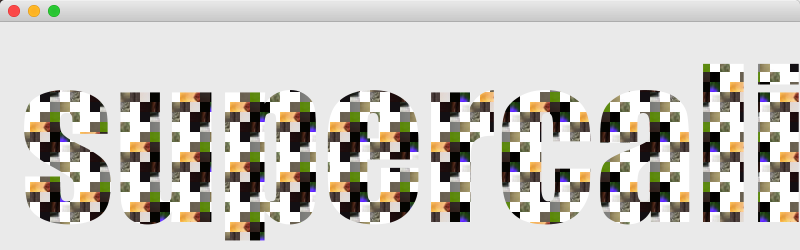
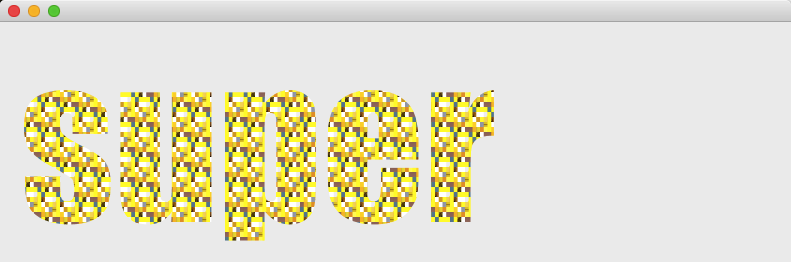
refactoring of backend and tests

diff --git a/src/main/java/service/ImageService.java b/src/main/java/service/ImageService.java
@@ -1,0 +1,124 @@
+package main.java.service;
+
+import javax.imageio.IIOException;
+import javax.imageio.ImageIO;
+import java.awt.image.BufferedImage;
+import java.io.BufferedReader;
+import java.io.File;
+import java.io.IOException;
+import java.io.InputStreamReader;
+import java.net.HttpURLConnection;
+import java.net.MalformedURLException;
+import java.net.URL;
+import java.util.ArrayList;
+import java.util.List;
+
+import static org.apache.http.params.CoreProtocolPNames.USER_AGENT;
+
+public class ImageService {
+    //  private static final String GOOGLE_SEARCH_API_KEY = "AIzaSyCQbxRMKMxuyaIVmosCa_k2sIv5BeavGFs";
+    //  private static final String GOOGLE_CX = "007628912923159165220:9e6kozm2iea";  // custom search engine identifier
+    private static final String GOOGLE_SEARCH_API_KEY = "AIzaSyADYi8Ob0jmPJbGEMCkJwrB31bOY80RtXs";
+    private static final String GOOGLE_CX = "008543189839369971484:b8selplq7z8";
+//	  private static final String GOOGLE_SEARCH_API_KEY = "AIzaSyB7_yytK04B7speZc4lXsHLr9ARmwPiUzw";
+//	  private static final String GOOGLE_CX = "015527610641952349258:lx1x9pjo0ec";
+
+    //generate url to make request to our Google custom search engine
+    private static URL generateRequestURL(String topic, int resultNumber, String garbageString) throws MalformedURLException {
+        URL requestURL = null;
+        if(resultNumber > 0) {
+            requestURL = new URL("http" + garbageString + "s://www.googleapis.com/customsearch/v1?key=" + GOOGLE_SEARCH_API_KEY + "&cx=" + GOOGLE_CX + "&q=" + topic + "&searchType=image&imgType=photo&imgSize=medium&start=" + resultNumber + "&num=10");
+        }
+        else {
+            requestURL = new URL("http" + garbageString + "s://www.googleapis.com/customsearch/v1?key=" + GOOGLE_SEARCH_API_KEY + "&cx=" + GOOGLE_CX + "&q=" + topic + "&searchType=image&imgType=photo&imgSize=medium&num=10");
+        }
+        return requestURL;
+    }
+
+    // The public interface exposed. Returns a list of images given a topic name (query)
+    public static List<BufferedImage> getImages(String query) {
+        List<BufferedImage> images = new ArrayList<>();
+        try {
+            // maintain count of number of results fetched from API
+            int resultNum = 0;
+            while(images.size() < 30) {
+                URL requestURL = generateRequestURL(query, resultNum, "");
+                URL obj = null;
+                HttpURLConnection con = null;
+                StringBuffer response = new StringBuffer();
+                con = (HttpURLConnection) requestURL.openConnection();
+                con.setRequestMethod("GET");
+                //add request header
+                con.setRequestProperty("User-Agent",  USER_AGENT);
+                con.addRequestProperty("Cookie", "name1=Denim");
+                int responseCode = con.getResponseCode();
+                System.out.println("\nSending ‘GET’ request to URL : " + requestURL.toString());
+                System.out.println("Response Code : " + responseCode);
+                while (responseCode != 200) {
+                    System.out.println("Sending");
+                    if (obj != null) {
+                        con = (HttpURLConnection) obj.openConnection();
+                        con.setRequestMethod("GET");
+                        //add request header
+                        con.setRequestProperty("User-Agent",  USER_AGENT);
+                        con.addRequestProperty("Cookie", "name1=Denim");
+                        responseCode = con.getResponseCode();
+                    }
+                }
+                BufferedReader reader = new BufferedReader(new InputStreamReader(con.getInputStream()));
+                String output;
+                // parse through JSON response for image links, line by line
+                while((output = reader.readLine()) != null) {
+                    if(output.contains("\"link\": \"")) {
+                        String link = output.substring(output.indexOf("\"link\": \"") + ("\"link\": \"").length(), output.indexOf("\","));
+                        URL imageURL = new URL(link);
+                        try {
+                            BufferedImage resultImage = (BufferedImage) ImageIO.read(imageURL);
+                            if (resultImage != null) {
+                                images.add(resultImage);
+                                //CALL FUNCTION TO SAVE PICTURES ONE BY ONE
+//	                              saveImageToFile(images.size(), resultImage);
+                                if (images.size() == 30) {
+                                    break;
+                                }
+                            }
+                        } catch (IIOException e) {
+                            e.printStackTrace();
+                        }
+                    }
+                }
+                con.disconnect();
+                resultNum += 10;
+            }
+        } catch (MalformedURLException e) {
+            e.printStackTrace();
+        } catch (IOException e) {
+            e.printStackTrace();
+        }
+        return images;
+    }
+
+    public static List<BufferedImage> getTestImages() {
+        List<BufferedImage> images = new ArrayList<BufferedImage>();
+        String fileExtension = "thirtyimages/";
+        String imgExtension = "image";
+        String jpgExtension = ".jpg";
+
+        //File outputfile = new File("image" + i + ".jpg");
+        int counter = 1;
+        for (int i = 0; i < 30; i++) {
+            String num = String.valueOf(counter);
+            try {
+                BufferedImage image = ImageIO.read(new File(fileExtension + imgExtension + num + jpgExtension));
+                images.add(image);
+            } catch (IOException e) {
+                e.printStackTrace();
+            } finally {
+                counter++;
+            }
+        }
+        return images;
+    }
+
+}
+

diff --git a/src/test/java/CollageBuilderTest.java b/src/test/java/CollageBuilderTest.java
@@ -1,0 +1,40 @@
+package test.java;
+
+import main.java.builder.CollageBuilder;
+import main.java.service.Tester;
+import org.junit.Test;
+
+import javax.imageio.ImageIO;
+import java.awt.image.BufferedImage;
+import java.awt.image.DataBufferByte;
+import java.io.File;
+import java.io.IOException;
+
+import static org.junit.Assert.*;
+
+public class CollageBuilderTest {
+
+    @Test
+    public void test_Initialization_StartsWithDefaultParameter() {
+        CollageBuilder collageBuilder = new CollageBuilder.Builder("cat", "meow").testing(true).build();
+        assertNotNull(collageBuilder.getTopic());
+        assertNotNull(collageBuilder.getShape());
+        assertNotNull(collageBuilder.getFilter());
+        assertNotNull(collageBuilder.getHeight());
+        assertNotNull(collageBuilder.getWidth());
+        assertNotNull(collageBuilder.getRotation());
+        assertNotNull(collageBuilder.getBorder());
+    }
+
+    @Test(timeout = 60000)
+    public void test_Build_CreatesCorrectCollage() throws IOException {
+        CollageBuilder collageBuilder =  new CollageBuilder.Builder("cat", "meow").testing(true).build();
+        BufferedImage collage = collageBuilder.build();
+        BufferedImage correctCollage = ImageIO.read(new File("CorrectCollage/correctCollage.png"));
+        byte[]  byteTestArray = ((DataBufferByte) correctCollage.getData().getDataBuffer()).getData();
+        byte[]  byteCollageArray = ((DataBufferByte) collage.getData().getDataBuffer()).getData();
+
+        assertArrayEquals(byteTestArray, byteCollageArray);
+    }
+
+}

diff --git a/src/main/java/service/Tester.java b/src/main/java/service/Tester.java
@@ -29,13 +29,13 @@ public class Tester {
     public static void doWork() {
     		long startTime = System.currentTimeMillis();
         
-        //List<BufferedImage> images = getImages("cats");
+        List<BufferedImage> images = getImages("yellow");
         //GETS IMAGES FOR TESTING PURPOSES
-        List<BufferedImage> images = getImagesTest();
+        //List<BufferedImage> images = getImagesTest();
         
         System.out.println("IMAGES SIZE " + images.size());
         BufferedImage i = buildCollage(images); //COMMENTED OUT DURING TESTING
-           // i = resizeImage(300, 300, i); //DID THIS DURING IMPLEMENTATION
+           i = resizeImage(300, 300, i); //DID THIS DURING IMPLEMENTATION
         
         //COMMENTED REST OF MAIN TO TEST
         TexturedText t = new TexturedText(i);
@@ -80,7 +80,7 @@ public class Tester {
                     RenderingHints.VALUE_ANTIALIAS_ON);
             Font font = new Font("Impact", Font.PLAIN, 200);
             g2.setFont(font);
-            String s = "supercalifragilisticexpialidocIOUS";
+            String s = "super";
             Dimension d = getSize();
             float x = 20, y = 200;
             BufferedImage bi = getTextureImage();

diff --git a/src/test/java/ImageServiceTest.java b/src/test/java/ImageServiceTest.java
@@ -1,0 +1,31 @@
+package test.java;
+
+import main.java.service.ImageService;
+import main.java.service.Tester;
+import org.junit.Test;
+
+import java.awt.image.BufferedImage;
+import java.io.IOException;
+import java.util.List;
+
+import static org.junit.Assert.*;
+
+public class ImageServiceTest {
+    @Test(timeout = 60000)
+    public void test_GetImages_GrabsSufficientImages() throws IOException {
+        List<BufferedImage> images = ImageService.getImages("cats");
+        int sufficientNumberOfImages = 30;
+        //Size of images array
+        int size = images.size();
+        assertEquals(size, sufficientNumberOfImages);
+    }
+
+    @Test(timeout = 60000)
+    public void test_GetTestImages_GrabsSufficientImages() throws IOException {
+        List<BufferedImage> images = ImageService.getTestImages();
+        int sufficientNumberOfImages = 30;
+        //Size of images array
+        int size = images.size();
+        assertEquals(size, sufficientNumberOfImages);
+    }
+}
